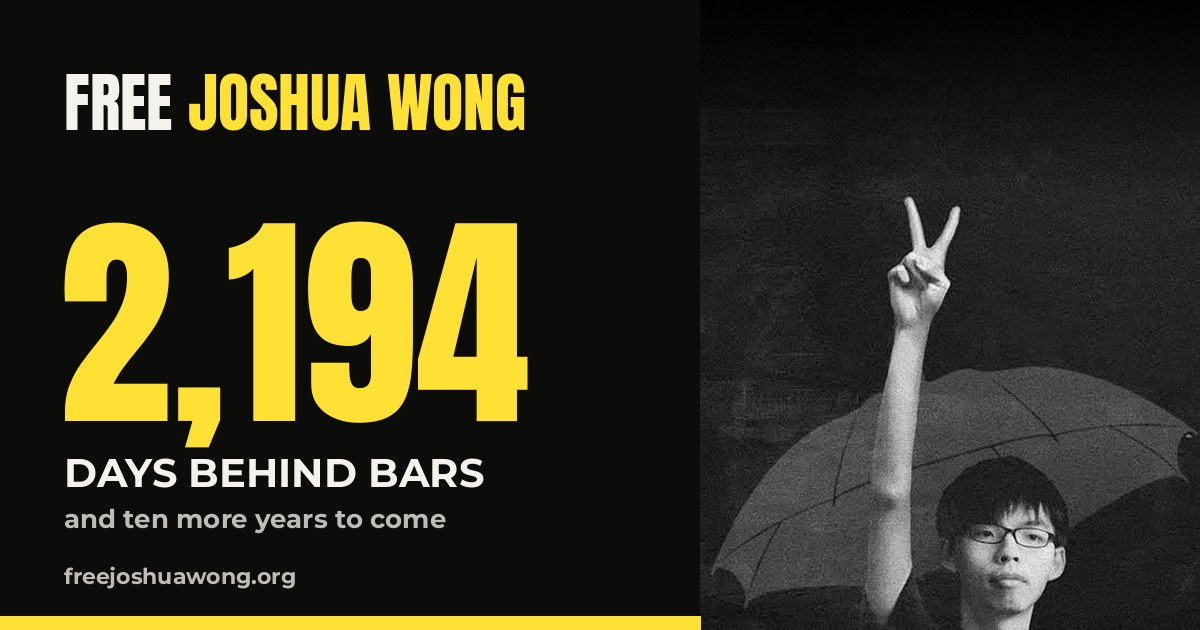
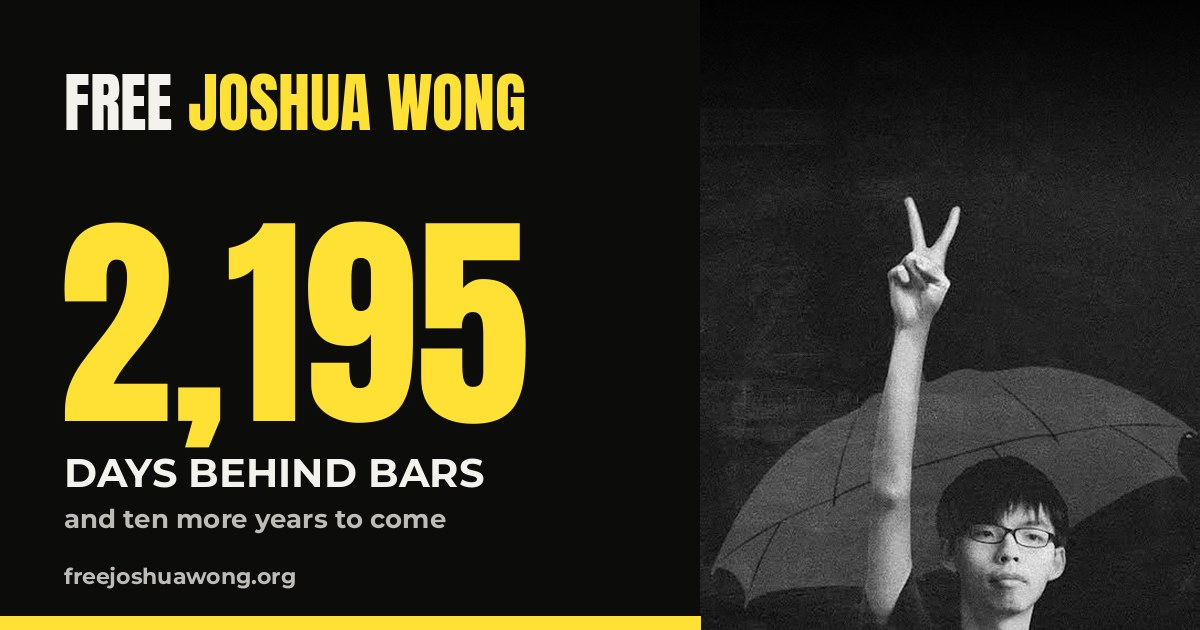
Press: add Hong Kong Watch on European Parliament resolution (26 Nov); update Latest; rebuild
Claude-Session: https://claude.ai/code/session_01MmFPUxue4kF9XcH7PRS4qD

Changed region(s): [[0.3392, 0.3317, 0.4625, 0.6937]]

diff --git a/index.html b/index.html
@@ -20,7 +20,7 @@
 <link rel="preconnect" href="https://fonts.googleapis.com">
 <link rel="preconnect" href="https://fonts.gstatic.com" crossorigin>
 <link href="https://fonts.googleapis.com/css2?family=Anton&family=Montserrat:wght@500;600;700;800&family=Newsreader:ital,opsz,wght@0,6..72,300..600;1,6..72,300..500&display=swap" rel="stylesheet">
-<link rel="stylesheet" href="assets/site.css?v=952ca394">
+<link rel="stylesheet" href="assets/site.css?v=d44e3d30">
 <script data-goatcounter="https://freejoshuawong.goatcounter.com/count" async src="https://gc.zgo.at/count.js"></script>
 </head>
 <body>
@@ -43,7 +43,7 @@
       <div class="r now"><span class="y">2026</span><b>Prisoner vs. Superpower</b></div>
       <div class="r cell-row"><span class="y">Now</span>
         <div class="cell" role="timer" aria-label="Days Joshua Wong has spent in prison">
-          <div class="cell-in"><span class="n" id="days" data-jailed="2020-11-23">2,194</span><span class="u">days<br>behind bars</span></div>
+          <div class="cell-in"><span class="n" id="days" data-jailed="2020-11-23">2,195</span><span class="u">days<br>behind bars</span></div>
         </div>
       </div>
     </div>
@@ -102,7 +102,7 @@
       <a href="voices.html#governments"><b>11</b><span>governments, plus the EU, condemned his sentence</span></a>
       <a href="letters/open-letter-prime-minister-sept-2026.html"><b>31</b><span>MPs, peers and rights leaders signed the open letter to the Prime Minister</span></a>
       <a href="parliament.html"><b>17</b><span>times raised in Parliament since the new charge in June 2025</span></a>
-      <a href="newsroom.html"><b>76</b><span>reports, podcasts and editorials since June 2025</span></a>
+      <a href="newsroom.html"><b>77</b><span>reports, podcasts and editorials since June 2025</span></a>
     </div>
   </div>
 </section>
@@ -121,34 +121,34 @@
       <h3>Asked and answered</h3>
       <p class="tk-lede">What ministers have been asked about Joshua since September, and what they have said.</p>
       <div class="wait-row">
-        <div class="wait-n"><span data-since="2026-11-11">15</span><small>days since 11 Nov</small></div>
+        <div class="wait-n"><span data-since="2026-11-11">16</span><small>days since 11 Nov</small></div>
         <div><em class="tk-st st-weak">No action</em><h4>Will the UK consider sanctions on those responsible?</h4><p>Written question from Richard Holden MP. Answering on 19 November, the minister said it “would not be appropriate for me to speculate on future measures”. <a href="https://questions-statements.parliament.uk/written-questions/detail/2026-11-11/42157" target="_blank" rel="noopener">The answer</a></p></div>
       </div>
       <div class="wait-row">
-        <div class="wait-n"><span data-since="2026-11-10">16</span><small>days since 10 Nov</small></div>
+        <div class="wait-n"><span data-since="2026-11-10">17</span><small>days since 10 Nov</small></div>
         <div><em class="tk-st st-dodged">Not answered</em><h4>Has the Foreign Secretary summoned the Chinese Ambassador over Joshua?</h4><p>Written question from Alex Barros-Curtis MP, one of seven tabled after the sentence. Answered on 18 November with a reference to another answer, which does not say whether the Ambassador has been summoned. <a href="https://questions-statements.parliament.uk/written-questions/detail/2026-11-10/41576" target="_blank" rel="noopener">The answer</a></p></div>
       </div>
       <div class="wait-row">
-        <div class="wait-n"><span data-since="2026-11-10">16</span><small>days since 10 Nov</small></div>
+        <div class="wait-n"><span data-since="2026-11-10">17</span><small>days since 10 Nov</small></div>
         <div><em class="tk-st st-weak">No action</em><h4>Summon the Ambassador and call for Joshua’s release, as the Government did for Jimmy Lai</h4><p>Emily Darlington MP in the Commons. The Security Minister said the Government “share the concerns” but made no commitment. <a href="parliament.html#exchange-nov">Watch the exchange</a></p></div>
       </div>
       <div class="wait-row">
-        <div class="wait-n"><span data-since="2026-11-03">23</span><small>days since 3 Nov</small></div>
+        <div class="wait-n"><span data-since="2026-11-03">24</span><small>days since 3 Nov</small></div>
         <div><em class="tk-st st-weak">No action</em><h4>Will Joshua’s treatment count in decisions on China’s new embassy?</h4><p>Written question from Alex Barros-Curtis MP. The Government said it does not comment on ongoing legal proceedings. <a href="https://questions-statements.parliament.uk/written-questions/detail/2026-10-22/37356" target="_blank" rel="noopener">The answer</a></p></div>
       </div>
       <div class="wait-row">
-        <div class="wait-n"><span data-since="2026-09-13">74</span><small>days since 13 Sep</small></div>
+        <div class="wait-n"><span data-since="2026-09-13">75</span><small>days since 13 Sep</small></div>
         <div><em class="tk-st st-none">No reply</em><h4>Summon China’s Ambassador to raise Joshua’s case</h4><p><a href="letters/open-letter-prime-minister-sept-2026.html">The open letter to the Prime Minister</a>, Andy Burnham, signed by 31 MPs, peers and rights leaders. No reply. <a href="letters/open-letter-prime-minister-sept-2026.html">Read the letter</a></p></div>
       </div>
       <div class="wait-row">
-        <div class="wait-n"><span data-since="2026-09-08">79</span><small>days since 8 Sep</small></div>
+        <div class="wait-n"><span data-since="2026-09-08">80</span><small>days since 8 Sep</small></div>
         <div><em class="tk-st st-weak">No action</em><h4>What has the UK said to Hong Kong about Joshua’s case?</h4><p>Six written questions from Gregory Stafford MP. One answer for all six: the Government “continues to monitor” the case. <a href="https://qna.files.parliament.uk/qnadailyreports/Written-Questions-Answers-Statements-Daily-Report-Commons-2026-09-08.pdf" target="_blank" rel="noopener">Read the answer (p.478)</a></p></div>
       </div>
       <div class="wait-row">
-        <div class="wait-n"><span data-since="2026-09-01">86</span><small>days since 1 Sep</small></div>
+        <div class="wait-n"><span data-since="2026-09-01">87</span><small>days since 1 Sep</small></div>
         <div><em class="tk-st st-noupdate">No update</em><h4>Take Joshua’s case up with China</h4><p>Sir Iain Duncan Smith in the Commons. The Foreign Secretary, Ed Miliband, said he would. No update has been made public. <a href="parliament.html#exchange">Watch the exchange</a></p></div>
       </div>
-      <p class="tk-foot">For comparison: when Jimmy Lai was convicted on 15 December 2025, the Foreign Office <a href="https://www.gov.uk/government/news/statement-fcdo-summons-chinese-ambassador-15-december-2025" target="_blank" rel="noopener">summoned the Chinese Ambassador the same day</a>. Joshua was sentenced <b data-since="2026-11-05">21</b> days ago. There has been no public word of the Ambassador being summoned over his case.</p>
+      <p class="tk-foot">For comparison: when Jimmy Lai was convicted on 15 December 2025, the Foreign Office <a href="https://www.gov.uk/government/news/statement-fcdo-summons-chinese-ambassador-15-december-2025" target="_blank" rel="noopener">summoned the Chinese Ambassador the same day</a>. Joshua was sentenced <b data-since="2026-11-05">22</b> days ago. There has been no public word of the Ambassador being summoned over his case.</p>
     </div>
     <p class="h4-more"><a href="case.html">Read the full case</a></p>
   </div>
@@ -189,7 +189,7 @@ Yours sincerely,
 <section class="h4-news">
   <div class="wrap">
     <div class="h4-news-head"><h2>Latest coverage</h2><a class="h4-link" href="newsroom.html">All coverage and statements</a></div>
-    <ul class="newslist"><li><a href="https://www.hongkongwatch.org/all-posts/2026/11/25/china-and-hong-kong-abusing-interpols-red-notice-system-as-world-police-chiefs-meet-in-hong-kong" target="_blank" rel="noopener"><span class="o">Hong Kong Watch</span><span class="h">China and Hong Kong abusing Interpol’s Red Notice system, as world police chiefs meet in Hong Kong</span><span class="d">25 Nov 2026</span></a></li><li><a href="https://democracylocal.substack.com/p/asia-democracy-chronicles-silenced" target="_blank" rel="noopener"><span class="o">Asia Democracy Chronicles · Andrew Shum</span><span class="h">Silenced, not forgotten: Joshua Wong’s long imprisonment</span><span class="d">23 Nov 2026</span></a></li><li><a href="https://hkuncensored.substack.com/p/apecs-blind-spot" target="_blank" rel="noopener"><span class="o">Committee for Freedom in Hong Kong Foundation</span><span class="h">APEC’s blind spot: Hong Kong’s political prisoners, including Joshua, at the Shenzhen summit</span><span class="d">20 Nov 2026</span></a></li><li><a href="https://engelsbergideas.com/notebook/xis-shenzhen-summit-was-less-novel-than-it-seemed/" target="_blank" rel="noopener"><span class="o">Engelsberg Ideas · Jeffrey Wasserstrom</span><span class="h">Xi’s Shenzhen summit was less novel than it seemed</span><span class="d">20 Nov 2026</span></a></li><li><a href="https://www.hawley.senate.gov/hawley-urges-state-department-to-advocate-for-release-of-hong-kong-rights-champion-joshua-wong/" target="_blank" rel="noopener"><span class="o">US Senate</span><span class="h">Senator Josh Hawley urges the Secretary of State to press for Joshua’s release</span><span class="d">20 Nov 2026</span></a></li></ul>
+    <ul class="newslist"><li><a href="https://www.hongkongwatch.org/all-posts/2026/11/26/european-parliament-calls-to-free-joshua-wong-and-au-kam-san" target="_blank" rel="noopener"><span class="o">Hong Kong Watch</span><span class="h">European Parliament calls to free Joshua Wong and Au Kam San</span><span class="d">26 Nov 2026</span></a></li><li><a href="https://www.hongkongwatch.org/all-posts/2026/11/25/china-and-hong-kong-abusing-interpols-red-notice-system-as-world-police-chiefs-meet-in-hong-kong" target="_blank" rel="noopener"><span class="o">Hong Kong Watch</span><span class="h">China and Hong Kong abusing Interpol’s Red Notice system, as world police chiefs meet in Hong Kong</span><span class="d">25 Nov 2026</span></a></li><li><a href="https://democracylocal.substack.com/p/asia-democracy-chronicles-silenced" target="_blank" rel="noopener"><span class="o">Asia Democracy Chronicles · Andrew Shum</span><span class="h">Silenced, not forgotten: Joshua Wong’s long imprisonment</span><span class="d">23 Nov 2026</span></a></li><li><a href="https://hkuncensored.substack.com/p/apecs-blind-spot" target="_blank" rel="noopener"><span class="o">Committee for Freedom in Hong Kong Foundation</span><span class="h">APEC’s blind spot: Hong Kong’s political prisoners, including Joshua, at the Shenzhen summit</span><span class="d">20 Nov 2026</span></a></li><li><a href="https://engelsbergideas.com/notebook/xis-shenzhen-summit-was-less-novel-than-it-seemed/" target="_blank" rel="noopener"><span class="o">Engelsberg Ideas · Jeffrey Wasserstrom</span><span class="h">Xi’s Shenzhen summit was less novel than it seemed</span><span class="d">20 Nov 2026</span></a></li></ul>
   </div>
 </section>
 </main>
@@ -233,7 +233,7 @@ window.addEventListener('DOMContentLoaded',function(){
     <div>
       <div class="brand">Free <span>Joshua Wong</span></div>
       <p>A campaign for the release of Joshua Wong, the Hong Kong democracy campaigner in prison since November 2020.</p>
-      <p class="updated" style="font-size:12px;opacity:.6">Last updated 26 November 2026</p>
+      <p class="updated" style="font-size:12px;opacity:.6">Last updated 27 November 2026</p>
     </div>
     <div class="cols">
       <nav aria-label="Footer">
@@ -248,6 +248,6 @@ window.addEventListener('DOMContentLoaded',function(){
   </div>
 </footer>
 <script src="assets/messages.js"></script>
-<script src="assets/site.js?v=952ca394"></script>
+<script src="assets/site.js?v=d44e3d30"></script>
 </body>
 </html>

diff --git a/parliament.html b/parliament.html
@@ -20,7 +20,7 @@
 <link rel="preconnect" href="https://fonts.googleapis.com">
 <link rel="preconnect" href="https://fonts.gstatic.com" crossorigin>
 <link href="https://fonts.googleapis.com/css2?family=Anton&family=Montserrat:wght@500;600;700;800&family=Newsreader:ital,opsz,wght@0,6..72,300..600;1,6..72,300..500&display=swap" rel="stylesheet">
-<link rel="stylesheet" href="assets/site.css?v=952ca394">
+<link rel="stylesheet" href="assets/site.css?v=d44e3d30">
 <script data-goatcounter="https://freejoshuawong.goatcounter.com/count" async src="https://gc.zgo.at/count.js"></script>
 </head>
 <body>
@@ -128,7 +128,7 @@
           <div class="px-role">Foreign Secretary</div>
           <p>Said he would take up Joshua’s case.</p>
         </div>
-        <div class="px-count"><b data-since="2026-09-01">86</b><span>days since that promise.<br>No update has been made public.</span></div>
+        <div class="px-count"><b data-since="2026-09-01">87</b><span>days since that promise.<br>No update has been made public.</span></div>
         <div data-share data-url="https://freejoshuawong.org/parliament.html" data-text="The Foreign Secretary promised to take up Joshua Wong’s case. No update since. #FreeJoshuaWong #JoshuaWong"></div>
       </div>
     </div>
@@ -192,7 +192,7 @@
         <div><div class="rec-who">Written questions · Gregory Stafford MP <span class="pty pty-con" title="Conservative">Con</span></div><h3>Six questions, one answer</h3><p>Gregory Stafford MP asked six questions on Joshua’s case, including what representations the UK has made to the Hong Kong authorities and its assessment of the rule of law in his case. Minister Chris Elmore gave a single answer: the Government continues to monitor the case, reports on it in the six-monthly reports, and repeats its call for the National Security Law to be repealed.</p><a class="src" href="https://qna.files.parliament.uk/qnadailyreports/Written-Questions-Answers-Statements-Daily-Report-Commons-2026-09-08.pdf" target="_blank" rel="noopener">Daily Report, p.478</a></div>
       </article><article class="rec" data-k="commons" id="rec-2026-09-01">
         <div class="rec-d"><span>1 Sep 2026</span><em class="k-commons">Commons</em></div>
-        <div><div class="rec-who">Foreign Office Questions · House of Commons</div><h3>“Enough is enough”</h3><p>Sir Iain Duncan Smith urged the Government to raise Joshua’s case with Beijing. Foreign Secretary Ed Miliband said he would take it up. No update has been made public since.</p><div class="rec-wait"><b data-since="2026-09-01">86</b> days, no update</div><a class="src" href="#exchange">Watch the exchange</a></div>
+        <div><div class="rec-who">Foreign Office Questions · House of Commons</div><h3>“Enough is enough”</h3><p>Sir Iain Duncan Smith urged the Government to raise Joshua’s case with Beijing. Foreign Secretary Ed Miliband said he would take it up. No update has been made public since.</p><div class="rec-wait"><b data-since="2026-09-01">87</b> days, no update</div><a class="src" href="#exchange">Watch the exchange</a></div>
       </article><article class="rec" data-k="lords">
         <div class="rec-d"><span>17 Dec 2025</span><em class="k-lords">Lords</em></div>
         <div><div class="rec-who">Jimmy Lai Conviction · House of Lords</div><h3>Named in the Lords after Jimmy Lai’s conviction</h3><p>Lord Alton asked what the Government is doing to raise the cases of pro-democracy prisoners “such as Joshua Wong and Andy Li”.</p><a class="src" href="https://hansard.parliament.uk/Lords/2025-12-17/debates/6CF28FA8-3A92-4C34-808D-A4BDD6322D85/JimmyLaiConviction" target="_blank" rel="noopener">Read the debate</a></div>
@@ -241,7 +241,7 @@
     <div>
       <div class="brand">Free <span>Joshua Wong</span></div>
       <p>A campaign for the release of Joshua Wong, the Hong Kong democracy campaigner in prison since November 2020.</p>
-      <p class="updated" style="font-size:12px;opacity:.6">Last updated 26 November 2026</p>
+      <p class="updated" style="font-size:12px;opacity:.6">Last updated 27 November 2026</p>
     </div>
     <div class="cols">
       <nav aria-label="Footer">
@@ -255,6 +255,6 @@
     </div>
   </div>
 </footer>
-<script src="assets/site.js?v=952ca394"></script>
+<script src="assets/site.js?v=d44e3d30"></script>
 </body>
 </html>

diff --git a/zh.html b/zh.html
@@ -20,7 +20,7 @@
 <link rel="preconnect" href="https://fonts.googleapis.com">
 <link rel="preconnect" href="https://fonts.gstatic.com" crossorigin>
 <link href="https://fonts.googleapis.com/css2?family=Anton&family=Montserrat:wght@500;600;700;800&family=Newsreader:ital,opsz,wght@0,6..72,300..600;1,6..72,300..500&display=swap" rel="stylesheet">
-<link rel="stylesheet" href="assets/site.css?v=952ca394">
+<link rel="stylesheet" href="assets/site.css?v=d44e3d30">
 <script data-goatcounter="https://freejoshuawong.goatcounter.com/count" async src="https://gc.zgo.at/count.js"></script>
 </head>
 <body>
@@ -43,7 +43,7 @@
 <div class="wrap"><p class="zh-demand">召見中國大使，釋放黃之鋒。</p></div>
 <section class="zh" style="border-top:0;padding-top:20px">
   <div class="wrap zh-body">
-    <div class="zh-count"><b data-since="2020-11-23">2194</b><span>日<br>身陷囹圄</span></div>
+    <div class="zh-count"><b data-since="2020-11-23">2195</b><span>日<br>身陷囹圄</span></div>
 
     <h2 class="zh-h">他是誰</h2>
     <p>黃之鋒十四歲時與同學創立學民思潮，2012年帶領反對國民教育科的運動。2014年雨傘運動期間，他是學生領袖之一。2016年，他與羅冠聰等人創立香港眾志。</p>
@@ -108,7 +108,7 @@
     <div>
       <div class="brand">Free <span>Joshua Wong</span></div>
       <p>A campaign for the release of Joshua Wong, the Hong Kong democracy campaigner in prison since November 2020.</p>
-      <p class="updated" style="font-size:12px;opacity:.6">Last updated 26 November 2026</p>
+      <p class="updated" style="font-size:12px;opacity:.6">Last updated 27 November 2026</p>
     </div>
     <div class="cols">
       <nav aria-label="Footer">
@@ -122,6 +122,6 @@
     </div>
   </div>
 </footer>
-<script src="assets/site.js?v=952ca394"></script>
+<script src="assets/site.js?v=d44e3d30"></script>
 </body>
 </html>

diff --git a/voices.html b/voices.html
@@ -20,7 +20,7 @@
 <link rel="preconnect" href="https://fonts.googleapis.com">
 <link rel="preconnect" href="https://fonts.gstatic.com" crossorigin>
 <link href="https://fonts.googleapis.com/css2?family=Anton&family=Montserrat:wght@500;600;700;800&family=Newsreader:ital,opsz,wght@0,6..72,300..600;1,6..72,300..500&display=swap" rel="stylesheet">
-<link rel="stylesheet" href="assets/site.css?v=952ca394">
+<link rel="stylesheet" href="assets/site.css?v=d44e3d30">
 <script data-goatcounter="https://freejoshuawong.goatcounter.com/count" async src="https://gc.zgo.at/count.js"></script>
 </head>
 <body>
@@ -108,7 +108,7 @@
     <div>
       <div class="brand">Free <span>Joshua Wong</span></div>
       <p>A campaign for the release of Joshua Wong, the Hong Kong democracy campaigner in prison since November 2020.</p>
-      <p class="updated" style="font-size:12px;opacity:.6">Last updated 26 November 2026</p>
+      <p class="updated" style="font-size:12px;opacity:.6">Last updated 27 November 2026</p>
     </div>
     <div class="cols">
       <nav aria-label="Footer">
@@ -122,8 +122,8 @@
     </div>
   </div>
 </footer>
-<script src="assets/voices.js?v=952ca394"></script>
-<script src="assets/socials.js?v=952ca394"></script>
-<script src="assets/site.js?v=952ca394"></script>
+<script src="assets/voices.js?v=d44e3d30"></script>
+<script src="assets/socials.js?v=d44e3d30"></script>
+<script src="assets/site.js?v=d44e3d30"></script>
 </body>
 </html>

diff --git a/assets/press.js b/assets/press.js
@@ -11,6 +11,7 @@ window.MOMENTS = [
   {id:"sentence", label:"Ten more years",     when:"November 2026"}
 ];
 window.PRESS = [
+  {date:"2026-11-26", outlet:"Hong Kong Watch", type:"rights", region:"UK", moment:"sentence", by:"Megan Khoo", title:"European Parliament calls to free Joshua Wong and Au Kam San", url:"https://www.hongkongwatch.org/all-posts/2026/11/26/european-parliament-calls-to-free-joshua-wong-and-au-kam-san"},
   {date:"2026-11-25", outlet:"Hong Kong Watch", type:"rights", region:"UK", moment:"sentence", by:"Frances Bell", title:"China and Hong Kong abusing Interpol’s Red Notice system, as world police chiefs meet in Hong Kong", url:"https://www.hongkongwatch.org/all-posts/2026/11/25/china-and-hong-kong-abusing-interpols-red-notice-system-as-world-police-chiefs-meet-in-hong-kong"},
   {date:"2026-11-19", outlet:"Kong Tsung-gan (Substack)", type:"opinion", region:"Global", moment:"sentence", by:"Kong Tsung-gan", title:"As 2026 comes to a close, there are still 25 Hong Kong pro-democracy leaders in prison", url:"https://briankernkongtsunggan.substack.com/p/as-2026-comes-to-a-close-there-are"},
   {date:"2026-10-16", outlet:"Committee for Freedom in Hong Kong Foundation", type:"rights", region:"US", moment:"birthday", title:"‘The Most Disciplined Activist’: Joshua Wong Turns 30 Behind Bars", url:"https://thecfhk.org/9393-2/"},

diff --git a/newsroom.html b/newsroom.html
@@ -20,7 +20,7 @@
 <link rel="preconnect" href="https://fonts.googleapis.com">
 <link rel="preconnect" href="https://fonts.gstatic.com" crossorigin>
 <link href="https://fonts.googleapis.com/css2?family=Anton&family=Montserrat:wght@500;600;700;800&family=Newsreader:ital,opsz,wght@0,6..72,300..600;1,6..72,300..500&display=swap" rel="stylesheet">
-<link rel="stylesheet" href="assets/site.css?v=952ca394">
+<link rel="stylesheet" href="assets/site.css?v=d44e3d30">
 <script data-goatcounter="https://freejoshuawong.goatcounter.com/count" async src="https://gc.zgo.at/count.js"></script>
 </head>
 <body>
@@ -139,7 +139,7 @@
     <div>
       <div class="brand">Free <span>Joshua Wong</span></div>
       <p>A campaign for the release of Joshua Wong, the Hong Kong democracy campaigner in prison since November 2020.</p>
-      <p class="updated" style="font-size:12px;opacity:.6">Last updated 26 November 2026</p>
+      <p class="updated" style="font-size:12px;opacity:.6">Last updated 27 November 2026</p>
     </div>
     <div class="cols">
       <nav aria-label="Footer">
@@ -153,7 +153,7 @@
     </div>
   </div>
 </footer>
-<script src="assets/press.js?v=952ca394"></script>
-<script src="assets/site.js?v=952ca394"></script>
+<script src="assets/press.js?v=d44e3d30"></script>
+<script src="assets/site.js?v=d44e3d30"></script>
 </body>
 </html>

diff --git a/act.html b/act.html
@@ -20,7 +20,7 @@
 <link rel="preconnect" href="https://fonts.googleapis.com">
 <link rel="preconnect" href="https://fonts.gstatic.com" crossorigin>
 <link href="https://fonts.googleapis.com/css2?family=Anton&family=Montserrat:wght@500;600;700;800&family=Newsreader:ital,opsz,wght@0,6..72,300..600;1,6..72,300..500&display=swap" rel="stylesheet">
-<link rel="stylesheet" href="assets/site.css?v=952ca394">
+<link rel="stylesheet" href="assets/site.css?v=d44e3d30">
 <script data-goatcounter="https://freejoshuawong.goatcounter.com/count" async src="https://gc.zgo.at/count.js"></script>
 </head>
 <body>
@@ -134,7 +134,7 @@ Yours sincerely,
     <div>
       <div class="brand">Free <span>Joshua Wong</span></div>
       <p>A campaign for the release of Joshua Wong, the Hong Kong democracy campaigner in prison since November 2020.</p>
-      <p class="updated" style="font-size:12px;opacity:.6">Last updated 26 November 2026</p>
+      <p class="updated" style="font-size:12px;opacity:.6">Last updated 27 November 2026</p>
     </div>
     <div class="cols">
       <nav aria-label="Footer">
@@ -148,6 +148,6 @@ Yours sincerely,
     </div>
   </div>
 </footer>
-<script src="assets/site.js?v=952ca394"></script>
+<script src="assets/site.js?v=d44e3d30"></script>
 </body>
 </html>

diff --git a/write.html b/write.html
@@ -20,7 +20,7 @@
 <link rel="preconnect" href="https://fonts.googleapis.com">
 <link rel="preconnect" href="https://fonts.gstatic.com" crossorigin>
 <link href="https://fonts.googleapis.com/css2?family=Anton&family=Montserrat:wght@500;600;700;800&family=Newsreader:ital,opsz,wght@0,6..72,300..600;1,6..72,300..500&display=swap" rel="stylesheet">
-<link rel="stylesheet" href="assets/site.css?v=952ca394">
+<link rel="stylesheet" href="assets/site.css?v=d44e3d30">
 <script data-goatcounter="https://freejoshuawong.goatcounter.com/count" async src="https://gc.zgo.at/count.js"></script>
 </head>
 <body>
@@ -102,7 +102,7 @@
     <div>
       <div class="brand">Free <span>Joshua Wong</span></div>
       <p>A campaign for the release of Joshua Wong, the Hong Kong democracy campaigner in prison since November 2020.</p>
-      <p class="updated" style="font-size:12px;opacity:.6">Last updated 26 November 2026</p>
+      <p class="updated" style="font-size:12px;opacity:.6">Last updated 27 November 2026</p>
     </div>
     <div class="cols">
       <nav aria-label="Footer">
@@ -117,6 +117,6 @@
   </div>
 </footer>
 <script src="assets/messages.js"></script>
-<script src="assets/site.js?v=952ca394"></script>
+<script src="assets/site.js?v=d44e3d30"></script>
 </body>
 </html>

diff --git a/letters/open-letter-prime-minister-sept-2026.html b/letters/open-letter-prime-minister-sept-2026.html
@@ -20,7 +20,7 @@
 <link rel="preconnect" href="https://fonts.googleapis.com">
 <link rel="preconnect" href="https://fonts.gstatic.com" crossorigin>
 <link href="https://fonts.googleapis.com/css2?family=Anton&family=Montserrat:wght@500;600;700;800&family=Newsreader:ital,opsz,wght@0,6..72,300..600;1,6..72,300..500&display=swap" rel="stylesheet">
-<link rel="stylesheet" href="../assets/site.css?v=952ca394">
+<link rel="stylesheet" href="../assets/site.css?v=d44e3d30">
 <script data-goatcounter="https://freejoshuawong.goatcounter.com/count" async src="https://gc.zgo.at/count.js"></script>
 </head>
 <body>
@@ -77,7 +77,7 @@
     <div>
       <div class="brand">Free <span>Joshua Wong</span></div>
       <p>A campaign for the release of Joshua Wong, the Hong Kong democracy campaigner in prison since November 2020.</p>
-      <p class="updated" style="font-size:12px;opacity:.6">Last updated 26 November 2026</p>
+      <p class="updated" style="font-size:12px;opacity:.6">Last updated 27 November 2026</p>
     </div>
     <div class="cols">
       <nav aria-label="Footer">
@@ -91,6 +91,6 @@
     </div>
   </div>
 </footer>
-<script src="../assets/site.js?v=952ca394"></script>
+<script src="../assets/site.js?v=d44e3d30"></script>
 </body>
 </html>

diff --git a/letters/times-letter-nov-2026.html b/letters/times-letter-nov-2026.html
@@ -20,7 +20,7 @@
 <link rel="preconnect" href="https://fonts.googleapis.com">
 <link rel="preconnect" href="https://fonts.gstatic.com" crossorigin>
 <link href="https://fonts.googleapis.com/css2?family=Anton&family=Montserrat:wght@500;600;700;800&family=Newsreader:ital,opsz,wght@0,6..72,300..600;1,6..72,300..500&display=swap" rel="stylesheet">
-<link rel="stylesheet" href="../assets/site.css?v=952ca394">
+<link rel="stylesheet" href="../assets/site.css?v=d44e3d30">
 <script data-goatcounter="https://freejoshuawong.goatcounter.com/count" async src="https://gc.zgo.at/count.js"></script>
 </head>
 <body>
@@ -70,7 +70,7 @@
     <div>
       <div class="brand">Free <span>Joshua Wong</span></div>
       <p>A campaign for the release of Joshua Wong, the Hong Kong democracy campaigner in prison since November 2020.</p>
-      <p class="updated" style="font-size:12px;opacity:.6">Last updated 26 November 2026</p>
+      <p class="updated" style="font-size:12px;opacity:.6">Last updated 27 November 2026</p>
     </div>
     <div class="cols">
       <nav aria-label="Footer">
@@ -84,6 +84,6 @@
     </div>
   </div>
 </footer>
-<script src="../assets/site.js?v=952ca394"></script>
+<script src="../assets/site.js?v=d44e3d30"></script>
 </body>
 </html>

diff --git a/voices/alicia-kearns-mp-2026-11-05.html b/voices/alicia-kearns-mp-2026-11-05.html
@@ -20,7 +20,7 @@
 <link rel="preconnect" href="https://fonts.googleapis.com">
 <link rel="preconnect" href="https://fonts.gstatic.com" crossorigin>
 <link href="https://fonts.googleapis.com/css2?family=Anton&family=Montserrat:wght@500;600;700;800&family=Newsreader:ital,opsz,wght@0,6..72,300..600;1,6..72,300..500&display=swap" rel="stylesheet">
-<link rel="stylesheet" href="../assets/site.css?v=952ca394">
+<link rel="stylesheet" href="../assets/site.css?v=d44e3d30">
 <script data-goatcounter="https://freejoshuawong.goatcounter.com/count" async src="https://gc.zgo.at/count.js"></script>
 </head>
 <body>
@@ -57,7 +57,7 @@
     <div>
       <div class="brand">Free <span>Joshua Wong</span></div>
       <p>A campaign for the release of Joshua Wong, the Hong Kong democracy campaigner in prison since November 2020.</p>
-      <p class="updated" style="font-size:12px;opacity:.6">Last updated 26 November 2026</p>
+      <p class="updated" style="font-size:12px;opacity:.6">Last updated 27 November 2026</p>
     </div>
     <div class="cols">
       <nav aria-label="Footer">
@@ -71,6 +71,6 @@
     </div>
   </div>
 </footer>
-<script src="../assets/site.js?v=952ca394"></script>
+<script src="../assets/site.js?v=d44e3d30"></script>
 </body>
 </html>

diff --git a/voices/alicia-kearns-mp-2026-11-10.html b/voices/alicia-kearns-mp-2026-11-10.html
@@ -20,7 +20,7 @@
 <link rel="preconnect" href="https://fonts.googleapis.com">
 <link rel="preconnect" href="https://fonts.gstatic.com" crossorigin>
 <link href="https://fonts.googleapis.com/css2?family=Anton&family=Montserrat:wght@500;600;700;800&family=Newsreader:ital,opsz,wght@0,6..72,300..600;1,6..72,300..500&display=swap" rel="stylesheet">
-<link rel="stylesheet" href="../assets/site.css?v=952ca394">
+<link rel="stylesheet" href="../assets/site.css?v=d44e3d30">
 <script data-goatcounter="https://freejoshuawong.goatcounter.com/count" async src="https://gc.zgo.at/count.js"></script>
 </head>
 <body>
@@ -57,7 +57,7 @@
     <div>
       <div class="brand">Free <span>Joshua Wong</span></div>
       <p>A campaign for the release of Joshua Wong, the Hong Kong democracy campaigner in prison since November 2020.</p>
-      <p class="updated" style="font-size:12px;opacity:.6">Last updated 26 November 2026</p>
+      <p class="updated" style="font-size:12px;opacity:.6">Last updated 27 November 2026</p>
     </div>
     <div class="cols">
       <nav aria-label="Footer">
@@ -71,6 +71,6 @@
     </div>
   </div>
 </footer>
-<script src="../assets/site.js?v=952ca394"></script>
+<script src="../assets/site.js?v=d44e3d30"></script>
 </body>
 </html>
